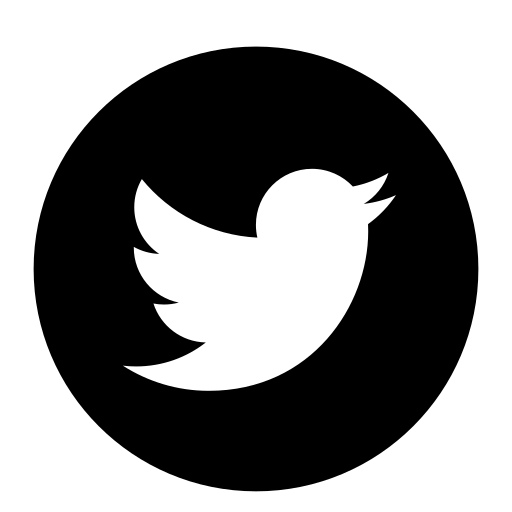
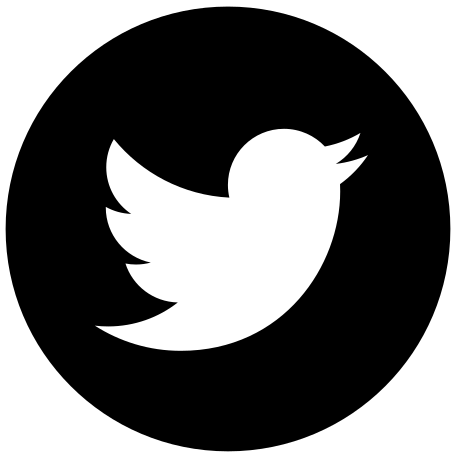
finalize responsive accordion with appropriate content

diff --git a/index.html b/index.html
@@ -95,24 +95,176 @@
               onclick="toggleVisibility('projects-acc');return false;">Work
               ></a></br>
           </li>
-          <div id="projects-acc"> CONTENT </div>
+          <div id="projects-acc">
+            <div class="projects-acc">
+              <h1>Recent Projects</h1>
+    
+              <div class="grid-projects">
+                <!-- Grid items will live here-->
+                <div class="grid__item-proj">
+                  <h2>myFlix (React)</h2>
+                  <div class="img-container">
+                    <img class="proj-img" src="img/proj/myflix.png" alt="">
+                  </div>
+                  <div class="proj-description">
+                    <p> Log in to browse movies and view movie details, such as director and genre. Add or remove movies
+                      from your list
+                      of favorites and customize your personal data. </p>
+                    <!-- <h4>Features</h4>
+                    <ul>
+                      <li> one </li>
+                      <li> two </li>
+                      <li> three </li>
+                    </ul> -->
+                    <h4>Built with</h4>
+                    <p>React, Express, Node, MongoDB</p>
+                  </div>
+                  <div class="proj-links">
+                    <a href="https://github.com/ellenmariestuder/myFlix-React" target="_blank">Github</a>
+                    <a href="https://getmyflix.netlify.app/" target="_blank">myFlix</a>
+                  </div>
+                </div>
+    
+                <div class="grid__item-proj">
+                  <h2>myFlix (Angular)</h2>
+                  <div class="img-container">
+                    <img class="proj-img" src="img/proj/myflix-angular.png" alt="">
+                  </div>
+                  <div class="proj-description">
+                    <p> Log in to browse movies and view movie details, such as director and genre. Add or remove movies
+                      from your list
+                      of favorites and customize your personal data. </p>
+                    <h4>Built with</h4>
+                    <p>Angular, Express, Node, MongoDB</p>
+                  </div>
+                  <div class="proj-links">
+                    <a href="https://github.com/ellenmariestuder/myFlix-Angular" target="_blank">Github</a>
+                    <a href="https://ellenmariestuder.github.io/myFlix-Angular/welcome" target="_blank">myFlix</a>
+                  </div>
+                </div>
+    
+                <div class="grid__item-proj">
+                  <h2>Meet App</h2>
+                  <div class="img-container">
+                    <img class="proj-img" src="img/proj/meet.png" alt="">
+                  </div>
+                  <div class="proj-description">
+                    <p> Log in using your Google account to view and filter upcoming CF web development events.</p>
+                    <h4>Built with</h4>
+                    <p>React, Google Calendar API, AWS</p>
+                  </div>
+                  <div class="proj-links">
+                    <a href="https://github.com/ellenmariestuder/meet_app" target="_blank">Github</a>
+                    <a href="https://ellenmariestuder.github.io/meet_app/" target="_blank">Meet App</a>
+                  </div>
+                </div>
+    
+                <div class="grid__item-proj">
+                  <h2>Chat App</h2>
+                  <div class="img-container">
+                    <img class="proj-img" src="img/proj/chat.png" alt="" style="padding-right: 10px;">
+                    <img class="proj-img" src="img/proj/chat2.png" alt="" style="padding-left: 10px;">
+                  </div>
+                  <div class="proj-description">
+                    <p> Send text messages, photos, and location; Personalize your chat screen.</p>
+                    <h4>Built with</h4>
+                    <p>React Native, Expo, Firestore, Gifted Chat</p>
+                  </div>
+                  <div class="proj-links">
+                    <a href="https://github.com/ellenmariestuder/chat_app" target="_blank">Github</a>
+                    <!-- <a href="#">Site</a> -->
+                  </div>
+                </div>
+    
+              </div>
+            </div>
+          </div>
           <li class="nav-item">
             <a href="#skills" class="nav-link bouncy active" id="nl-skills-m" style="animation-delay:0.07s"
               onclick="toggleVisibility('skills-acc');return false;">Skills ></a></br>
           </li>
-          <div id="skills-acc"> CONTENT </div>
+          <div id="skills-acc">
+            <div class="skills-acc">
+              <h1>Toolbelt</h1>
+              <div class="grid-skills">
+                <div class="grid__item">
+                  <img class="skill_img" src="img/icon/html.png" alt="">
+                </div>
+                <div class="grid__item">
+                  <img class="skill_img" src="img/icon/css.png" alt="">
+                </div>
+                <div class="grid__item">
+                  <img class="skill_img" src="img/icon/javascript.png" alt="">
+                </div>
+                <div class="grid__item">
+                  <img class="skill_img" src="img/icon/react.png" alt="">
+                </div>
+                <div class="grid__item">
+                  <img class="skill_img" src="img/icon/bootstrap.png" alt="">
+                </div>
+                <div class="grid__item">
+                  <img class="skill_img" src="img/icon/node.png" alt="">
+                </div>
+                <div class="grid__item">
+                  <img class="skill_img" src="img/icon/expressjs.png" alt="">
+                </div>
+                <div class="grid__item">
+                  <img class="skill_img" src="img/icon/mongodb.png" alt="">
+                </div>
+                <div class="grid__item">
+                  <img class="skill_img" src="img/icon/sql.png" alt="">
+                  <!-- <img class="skill_img" src="img/icon/sql.jpg" alt=""> -->
+                </div>
+                <div class="grid__item">
+                  <img class="skill_img" src="img/icon/github.png" alt="">
+                </div>
+                <div class="grid__item">
+                  <img class="skill_img" src="img/icon/vscode.png" alt="">
+                </div>
+                <div class="grid__item">
+                  <img class="skill_img" src="img/icon/atom.png" alt="">
+                </div>
+              </div>
+            </div>
+          </div>
+
           <li class="nav-item">
             <a href="#about" class="nav-link bouncy active" id="nl-about-m" style="animation-delay:0.14s"
               onclick="toggleVisibility('about-acc');return false;">About ></a></br>
           </li>
-          <div id="about-acc"> CONTENT </div>
+          <div id="about-acc">
+            <div class="about-acc">
+              <h1>About Me</h1>
+
+              <div class="about-content">
+                <img src="img/es_portrait_square.png" class="profile__portrait" alt="Ellen Studer Portrait">
+
+                <h3>
+                  Hi, I'm Ellen! I am a web developer with a background in data analytics.
+                </h3>
+                <div class="about-me__text">
+
+                  <div class="about-text__responsive">
+                    I am looking to combine my love of coding, desire for more creative work,
+                    and aspiration to bolster positive causes, through a full-stack developer position.
+                  </div>
+
+                  <div class="about-text__responsive">
+                    Currently seeking full-time full-stack engineer positions; am also open to contract and freelance
+                    front-end, back-end, or full-stack work.
+                  </div>
+
+                </div>
+              </div>
+            </div>
+          </div>
+
           <li class="nav-item">
             <a href="#contact" class="nav-link bouncy active" id="nl-contact-m" style="animation-delay:0.21s"
               onclick="toggleVisibility('contact-acc');return false;">Contact
               ></a></br>
           </li>
           <div id="contact-acc">
-
             <div class="contact-acc">
               <h1>Get in Touch</h1>
               <div>

diff --git a/css/styles.css b/css/styles.css
@@ -263,8 +263,8 @@ a:hover, a:focus {
 } */
 
 .icon-twitter {
-  height: 39px;
-  margin-bottom: 14px;
+  height: 33px;
+  margin-bottom: 16px;
 }
 
 .profile__portrait {
@@ -544,6 +544,14 @@ textarea {
    height: 37px;
    margin-bottom: 15px;
  }
+
+ .img-container {
+  height: 200px;
+  text-align: center;
+  align-items: center;
+  margin-top: 20px;
+  margin-bottom: 30px;
+}
    
   .profile__portrait {
     display: none;
@@ -662,8 +670,8 @@ textarea {
   }
 }
 
-@media all and (max-width: 600px) {
+/* @media all and (max-width: 600px) {
   .grid-skills {
     grid-template-columns: 1fr 1fr;
   }
-}
+} */
